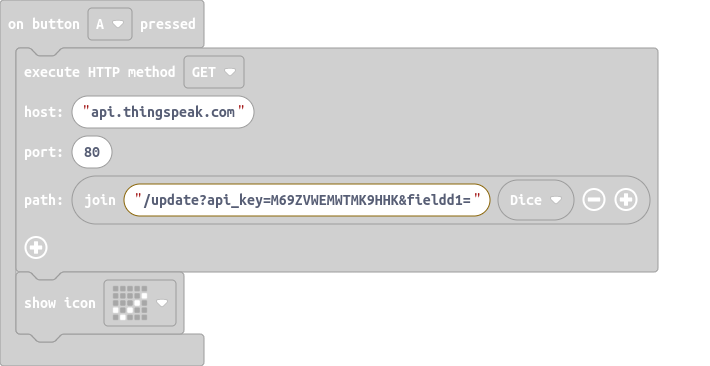
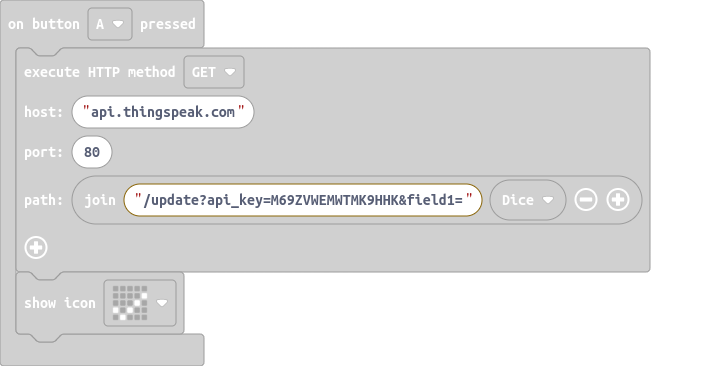
Update main.blocks, main.ts

diff --git a/main.ts b/main.ts
@@ -3,7 +3,7 @@ input.onButtonPressed(Button.A, function () {
     HttpMethod.GET,
     "api.thingspeak.com",
     80,
-    "/update?api_key=M69ZVWEMWTMK9HHK&fieldd1=" + Dice
+    "/update?api_key=M69ZVWEMWTMK9HHK&field1=" + Dice
     )
     basic.showIcon(IconNames.Yes)
 })
